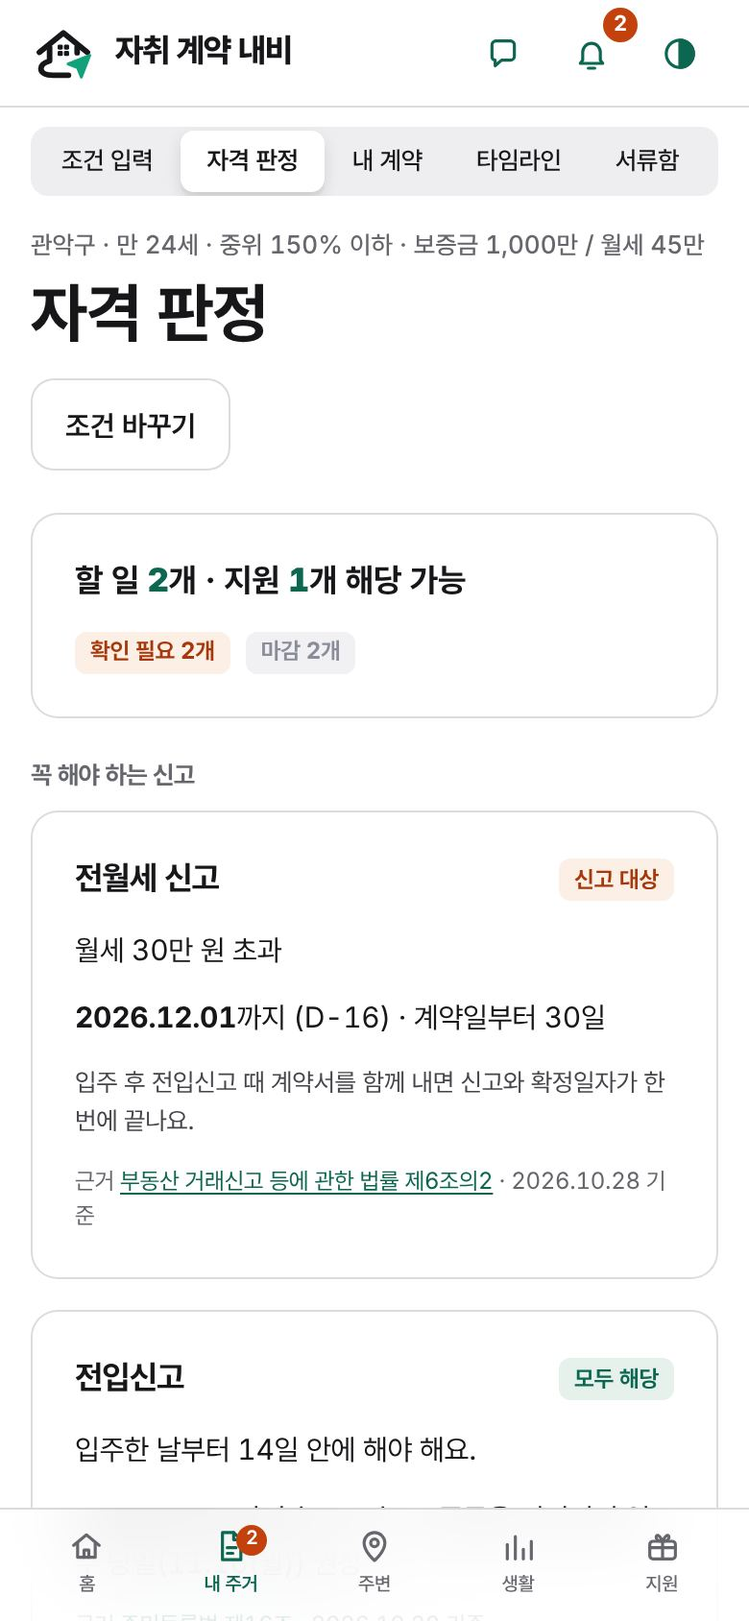
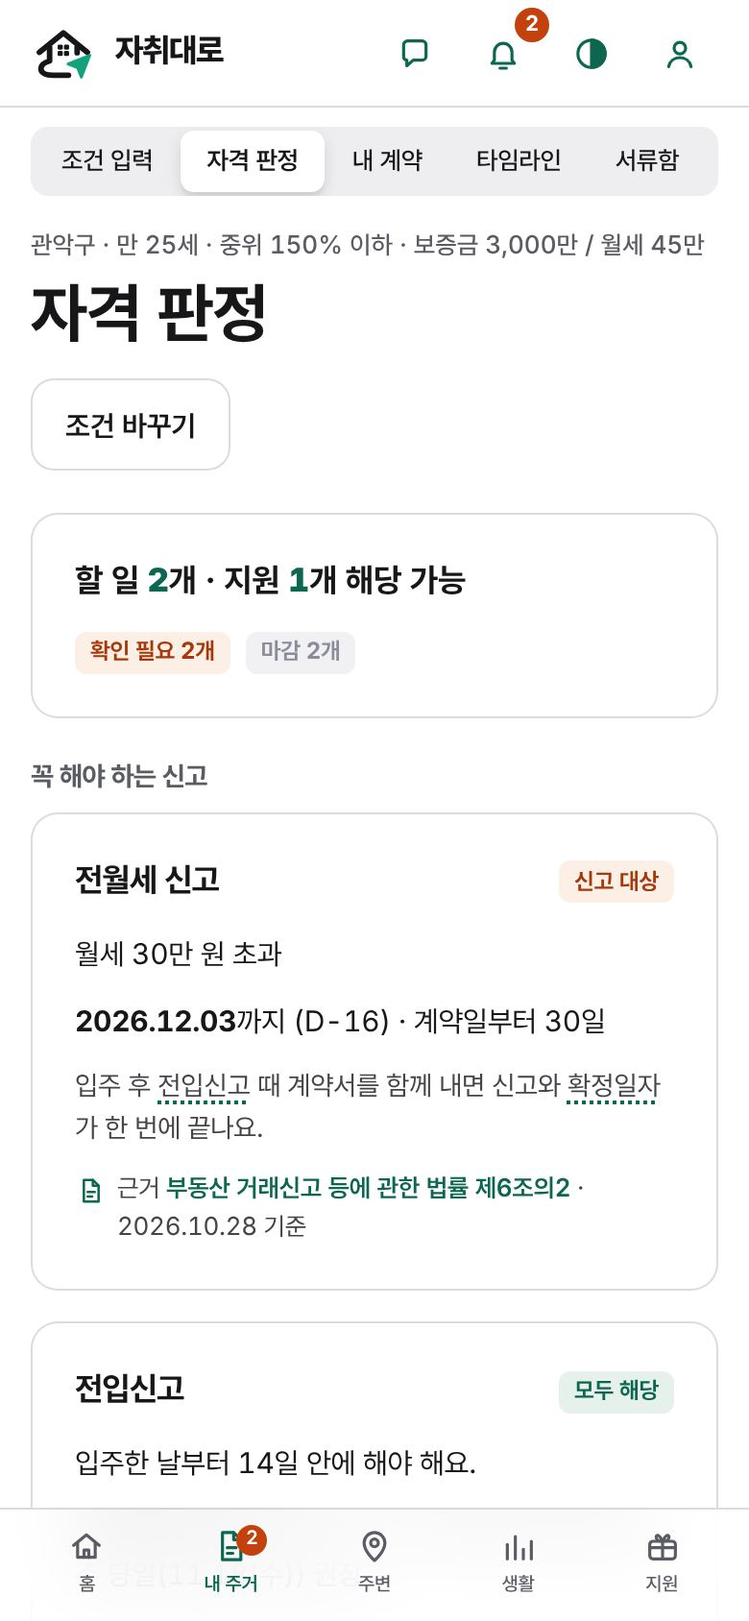
feat: 서비스 이름을 '자취대로'로
- 앱·소개 페이지·운영자 콘솔·예전 계약 전 화면의 제목·로고 글자·홈 화면 이름(manifest name/short_name, iOS 홈 화면 제목)
- 캘린더(.ics) 일정 설명, AI 코치·공고 추출 프롬프트, 승인 공고의 '기본 체크리스트' 출처 이름, 코드 주석
- README·PRD·Architecture·시연 기획서. DECISIONS·Tasks는 기록이라 그대로
- 소개 페이지 화면 이미지 7장을 새 이름으로 다시 촬영
- 서비스워커 캐시 v31 (예전 이름 화면이 남지 않게)
- 주소(jachwi-navi.vercel.app)와 내부 저장 키는 그대로

Claude-Session: https://claude.ai/code/session_01Uqv9B2Vk576jKchxvgvJKG

diff --git a/demo/app.html b/demo/app.html
@@ -4,7 +4,7 @@
 <meta charset="utf-8">
 <meta name="viewport" content="width=device-width, initial-scale=1, viewport-fit=cover">
 <script>/* 화면 테마(자동·밝게·어둡게)를 그리기 전에 먼저 적용해서 처음 열 때 깜빡이지 않게 한다 */ try { var t0 = localStorage.getItem('jachwi-theme'); if (t0 === 'light' || t0 === 'dark') document.documentElement.setAttribute('data-theme', t0); } catch (e) {}</script>
-<title>자취 계약 내비</title>
+<title>자취대로</title>
 <meta name="description" content="처음 자취하는 청년을 위한 계약·신고·지원·동네 생활 길잡이 ">
 <link rel="preconnect" href="https://cdn.jsdelivr.net" crossorigin>
 <link rel="stylesheet" href="https://cdn.jsdelivr.net/npm/pretendard@1.3.9/dist/web/variable/pretendardvariable-dynamic-subset.min.css">
@@ -27,13 +27,13 @@
 <meta name="theme-color" content="#FFFFFF" media="(prefers-color-scheme: light)">
 <meta name="theme-color" content="#111112" media="(prefers-color-scheme: dark)">
 <meta name="apple-mobile-web-app-capable" content="yes">
-<meta name="apple-mobile-web-app-title" content="자취내비">
+<meta name="apple-mobile-web-app-title" content="자취대로">
 <link rel="apple-touch-icon" href="icons/apple-touch-icon.png">
 <link rel="icon" type="image/png" sizes="32x32" href="icons/favicon-32.png">
 <style>
 /* ============================================================
-   자취 내비 디자인 — 계약 후 서비스
-   - 강조색 하나(내비 보라), 기한만 주황으로 구분
+   자취대로 디자인 — 계약 후 서비스
+   - 강조색 하나(보라), 기한만 주황으로 구분
    - 흰 카드 + 헤어라인, 그림자 없음
    - PC: 왼쪽 사이드바 / 휴대폰: 위 바 + 아래 탭바
    ============================================================ */
@@ -1206,7 +1206,7 @@ a.card:active, button.card:active, .room-r:active, .nav:active { opacity: .6 }
 <body>
 <div class="shell">
   <aside class="side" aria-label="주요 메뉴">
-    <a class="brand" href="#home"><span class="brand-mark"><svg viewBox="0 0 64 64" fill="none" aria-hidden="true" focusable="false"><g stroke="currentColor" stroke-width="5.5" stroke-linecap="round" stroke-linejoin="round"><path d="M8.5 30.5 32 11.5l23.5 19"/><path d="M18.5 25.5v13.5c-5.5 1.6-8.5 4.4-8.5 7.6 0 3.9 4.4 6.4 12 6.4h15"/><path d="M45.5 25.5v5.5"/></g><g fill="currentColor"><rect x="26.4" y="23" width="5" height="5" rx="1.3"/><rect x="32.6" y="23" width="5" height="5" rx="1.3"/><rect x="26.4" y="29.2" width="5" height="5" rx="1.3"/><rect x="32.6" y="29.2" width="5" height="5" rx="1.3"/></g><path d="M36.5 42 58 33.5l-8.4 21.5-3.8-9.4z" fill="#12A27B" stroke="#12A27B" stroke-width="2.6" stroke-linejoin="round"/></svg></span><span><b>자취 계약 내비</b><small>첫 자취 길잡이</small></span></a>
+    <a class="brand" href="#home"><span class="brand-mark"><svg viewBox="0 0 64 64" fill="none" aria-hidden="true" focusable="false"><g stroke="currentColor" stroke-width="5.5" stroke-linecap="round" stroke-linejoin="round"><path d="M8.5 30.5 32 11.5l23.5 19"/><path d="M18.5 25.5v13.5c-5.5 1.6-8.5 4.4-8.5 7.6 0 3.9 4.4 6.4 12 6.4h15"/><path d="M45.5 25.5v5.5"/></g><g fill="currentColor"><rect x="26.4" y="23" width="5" height="5" rx="1.3"/><rect x="32.6" y="23" width="5" height="5" rx="1.3"/><rect x="26.4" y="29.2" width="5" height="5" rx="1.3"/><rect x="32.6" y="29.2" width="5" height="5" rx="1.3"/></g><path d="M36.5 42 58 33.5l-8.4 21.5-3.8-9.4z" fill="#12A27B" stroke="#12A27B" stroke-width="2.6" stroke-linejoin="round"/></svg></span><span><b>자취대로</b><small>첫 자취 길잡이</small></span></a>
     <nav id="side-nav" style="display:flex;flex-direction:column;gap:2px"></nav>
     <div class="side-foot">
       <div id="side-tools"></div>
@@ -1214,7 +1214,7 @@ a.card:active, button.card:active, .room-r:active, .nav:active { opacity: .6 }
     </div>
   </aside>
   <div>
-    <header class="topbar"><a class="brand" href="#home"><span class="brand-mark"><svg viewBox="0 0 64 64" fill="none" aria-hidden="true" focusable="false"><g stroke="currentColor" stroke-width="5.5" stroke-linecap="round" stroke-linejoin="round"><path d="M8.5 30.5 32 11.5l23.5 19"/><path d="M18.5 25.5v13.5c-5.5 1.6-8.5 4.4-8.5 7.6 0 3.9 4.4 6.4 12 6.4h15"/><path d="M45.5 25.5v5.5"/></g><g fill="currentColor"><rect x="26.4" y="23" width="5" height="5" rx="1.3"/><rect x="32.6" y="23" width="5" height="5" rx="1.3"/><rect x="26.4" y="29.2" width="5" height="5" rx="1.3"/><rect x="32.6" y="29.2" width="5" height="5" rx="1.3"/></g><path d="M36.5 42 58 33.5l-8.4 21.5-3.8-9.4z" fill="#12A27B" stroke="#12A27B" stroke-width="2.6" stroke-linejoin="round"/></svg></span><b>자취 계약 내비</b></a><span class="row" id="top-acts" style="gap:6px"><a class="icon-btn" href="#coach" aria-label="AI 자취 코치"><span data-icon="chat"></span></a><a class="icon-btn" href="#contract" aria-label="내 계약"><span data-icon="gear"></span></a></span></header>
+    <header class="topbar"><a class="brand" href="#home"><span class="brand-mark"><svg viewBox="0 0 64 64" fill="none" aria-hidden="true" focusable="false"><g stroke="currentColor" stroke-width="5.5" stroke-linecap="round" stroke-linejoin="round"><path d="M8.5 30.5 32 11.5l23.5 19"/><path d="M18.5 25.5v13.5c-5.5 1.6-8.5 4.4-8.5 7.6 0 3.9 4.4 6.4 12 6.4h15"/><path d="M45.5 25.5v5.5"/></g><g fill="currentColor"><rect x="26.4" y="23" width="5" height="5" rx="1.3"/><rect x="32.6" y="23" width="5" height="5" rx="1.3"/><rect x="26.4" y="29.2" width="5" height="5" rx="1.3"/><rect x="32.6" y="29.2" width="5" height="5" rx="1.3"/></g><path d="M36.5 42 58 33.5l-8.4 21.5-3.8-9.4z" fill="#12A27B" stroke="#12A27B" stroke-width="2.6" stroke-linejoin="round"/></svg></span><b>자취대로</b></a><span class="row" id="top-acts" style="gap:6px"><a class="icon-btn" href="#coach" aria-label="AI 자취 코치"><span data-icon="chat"></span></a><a class="icon-btn" href="#contract" aria-label="내 계약"><span data-icon="gear"></span></a></span></header>
     <main class="main" id="app" tabindex="-1"></main>
   </div>
   <nav class="tabbar" id="tab-nav" aria-label="주요 메뉴"></nav>
@@ -1573,7 +1573,7 @@ document.addEventListener('DOMContentLoaded', function () {
   // ---------- 승인된 규칙 (시연용 예시 공고) ----------
   var BASIS = '2026.10.28';
   var LAW = 'https://www.law.go.kr';
-  var BASE_SRC = '자취 계약 내비 기본 체크리스트';
+  var BASE_SRC = '자취대로 기본 체크리스트';
   // 신고·기한·나이 계산은 engine.js(계약·신고 담당), 지원 자격은 rules-core.js(evalProgram)
   var JE = window.JachwiEngine;
   function contractEnd() { return JE.contractEnd(pd(S.move), S.term); }
@@ -1749,7 +1749,7 @@ document.addEventListener('DOMContentLoaded', function () {
     var timed = /^\d{2}:\d{2}$/.test(x.time || ''), a = x.alarm || '1d', trig;
     if (timed) { var hm = x.time.split(':'), st = new Date(Date.UTC(d.getFullYear(), d.getMonth(), d.getDate(), +hm[0] - 9, +hm[1])); L.push('DTSTART:' + utc(st), 'DTEND:' + utc(new Date(st.getTime() + 36e5))); trig = { '0': '-PT0M', '1h': '-PT1H', '1d': '-P1D', '3d': '-P3D' }[a]; }
     else { L.push('DTSTART;VALUE=DATE:' + ymd8(d), 'DTEND;VALUE=DATE:' + ymd8(add(d, 1))); trig = { '0': 'PT9H', '1h': 'PT9H', '1d': '-PT15H', '3d': '-P2DT15H' }[a]; }
-    L.push(icsFold('SUMMARY:' + icsEsc(x.title)), icsFold('DESCRIPTION:' + icsEsc('자취 계약 내비에서 추가한 일정')));
+    L.push(icsFold('SUMMARY:' + icsEsc(x.title)), icsFold('DESCRIPTION:' + icsEsc('자취대로에서 추가한 일정')));
     if (trig) L.push('BEGIN:VALARM', 'ACTION:DISPLAY', icsFold('DESCRIPTION:' + icsEsc(x.title)), 'TRIGGER:' + trig, 'END:VALARM');
     L.push('END:VEVENT', 'END:VCALENDAR');
     return L.join('\r\n') + '\r\n';
@@ -3581,7 +3581,7 @@ document.addEventListener('DOMContentLoaded', function () {
     var d = e.date, dates;
     if (e.time) { var hm = e.time.replace(':', ''), st = new Date(d.getFullYear(), d.getMonth(), d.getDate(), +hm.slice(0, 2), +hm.slice(2, 4) + 60); dates = ymd8(d) + 'T' + hm + '00/' + ymd8(st) + 'T' + String(st.getHours()).padStart(2, '0') + String(st.getMinutes()).padStart(2, '0') + '00'; }
     else dates = ymd8(d) + '/' + ymd8(add(d, 1));
-    return 'https://calendar.google.com/calendar/render?action=TEMPLATE&text=' + encodeURIComponent(e.title) + '&dates=' + dates + '&ctz=Asia/Seoul&details=' + encodeURIComponent('자취 계약 내비에서 추가한 일정');
+    return 'https://calendar.google.com/calendar/render?action=TEMPLATE&text=' + encodeURIComponent(e.title) + '&dates=' + dates + '&ctz=Asia/Seoul&details=' + encodeURIComponent('자취대로에서 추가한 일정');
   }
   function downloadICS() {
     var body = window.JachwiICS ? JachwiICS.build(calPayload(), { name: '자취 캘린더' }) : '';
@@ -4050,7 +4050,7 @@ document.addEventListener('DOMContentLoaded', function () {
     var w = OB_WHY[st] || OB_WHY[0];
     return '<aside class="ob-aside" aria-label="' + esc(w[0]) + '"><h2>' + esc(w[0]) + '</h2><ul>' + w[1].map(function (x) { return '<li><b>' + esc(x[0]) + '</b><span>' + esc(x[1]) + '</span></li>'; }).join('') + '</ul></aside>';
   }
-  function obBrand() { return '<div class="brand" style="padding:0"><span class="brand-mark"><svg viewBox="0 0 64 64" fill="none" aria-hidden="true" focusable="false"><g stroke="currentColor" stroke-width="5.5" stroke-linecap="round" stroke-linejoin="round"><path d="M8.5 30.5 32 11.5l23.5 19"/><path d="M18.5 25.5v13.5c-5.5 1.6-8.5 4.4-8.5 7.6 0 3.9 4.4 6.4 12 6.4h15"/><path d="M45.5 25.5v5.5"/></g><g fill="currentColor"><rect x="26.4" y="23" width="5" height="5" rx="1.3"/><rect x="32.6" y="23" width="5" height="5" rx="1.3"/><rect x="26.4" y="29.2" width="5" height="5" rx="1.3"/><rect x="32.6" y="29.2" width="5" height="5" rx="1.3"/></g><path d="M36.5 42 58 33.5l-8.4 21.5-3.8-9.4z" fill="#12A27B" stroke="#12A27B" stroke-width="2.6" stroke-linejoin="round"/></svg></span><span><b>자취 계약 내비</b><small>첫 자취 길잡이</small></span></div>'; }
+  function obBrand() { return '<div class="brand" style="padding:0"><span class="brand-mark"><svg viewBox="0 0 64 64" fill="none" aria-hidden="true" focusable="false"><g stroke="currentColor" stroke-width="5.5" stroke-linecap="round" stroke-linejoin="round"><path d="M8.5 30.5 32 11.5l23.5 19"/><path d="M18.5 25.5v13.5c-5.5 1.6-8.5 4.4-8.5 7.6 0 3.9 4.4 6.4 12 6.4h15"/><path d="M45.5 25.5v5.5"/></g><g fill="currentColor"><rect x="26.4" y="23" width="5" height="5" rx="1.3"/><rect x="32.6" y="23" width="5" height="5" rx="1.3"/><rect x="26.4" y="29.2" width="5" height="5" rx="1.3"/><rect x="32.6" y="29.2" width="5" height="5" rx="1.3"/></g><path d="M36.5 42 58 33.5l-8.4 21.5-3.8-9.4z" fill="#12A27B" stroke="#12A27B" stroke-width="2.6" stroke-linejoin="round"/></svg></span><span><b>자취대로</b><small>첫 자취 길잡이</small></span></div>'; }
   // 로그인 화면 (내 기록을 쓰려면 로그인. 예시 데이터는 로그인 없이)
   function viewLogin() {
     moBegin('start');
@@ -4099,7 +4099,7 @@ document.addEventListener('DOMContentLoaded', function () {
       if (!o || !/^\d{4}-\d{2}-\d{2}$/.test(o.contract || '') || !/^\d{4}-\d{2}-\d{2}$/.test(o.move || '')) throw new Error('bad');
       if (!confirm('이 파일의 기록으로 지금 기록을 바꿀까요?')) return;
       S = migrate(Object.assign(clone(FRESH), o, { onboarded: true, demo: false, sim: null })); AMT_NOTE = {}; save(); PC.k = ''; DATA = { key: '', status: 'idle', items: [], sources: [], fetchedAt: '', notes: [], error: '' }; render(false); toast('기록을 불러왔어요.');
-    }).catch(function () { toast('자취 계약 내비 백업 파일이 아니에요.'); });
+    }).catch(function () { toast('자취대로 백업 파일이 아니에요.'); });
   }
 
   // ---------- 조건 입력 (필수 ①) ----------

diff --git a/demo/index.html b/demo/index.html
@@ -4,7 +4,7 @@
 <meta charset="utf-8">
 <meta name="viewport" content="width=device-width, initial-scale=1, viewport-fit=cover">
 <style>:root{color-scheme:light}body{margin:0}img{max-width:100%}[hidden]{display:none!important}</style>
-<title>자취 계약 내비</title>
+<title>자취대로</title>
 <meta name="claude:viewport-fit-sides" content="cover">
 <link rel="preconnect" href="https://fonts.googleapis.com">
 <link rel="preconnect" href="https://fonts.gstatic.com" crossorigin>
@@ -200,7 +200,7 @@ footer nav a { color: var(--sub); text-decoration: none; font-weight: 600 }
 <div class="demo-bar"><div class="wrap"><span>시연 버전이에요. 서울 청년 주거지원 공고(2026.10.28 기준) 예시 데이터로 동작해요.</span><span><a href="app.html">계약 후 화면 보기</a> · <a href="admin.html">운영자 콘솔(공고 검수·AI 코치)</a></span></div></div>
 
 <header class="top"><div class="wrap">
-  <a class="logo" href="#home"><span class="logo-mark" aria-hidden="true"><svg width="18" height="18" viewBox="0 0 24 24" fill="none" stroke-width="2.2" stroke-linecap="round" stroke-linejoin="round"><path d="M4 11.5 12 5l8 6.5"/><path d="M6.5 10v9h11v-9"/><path d="M10.5 19v-4.5h3V19"/></svg></span>자취 계약 내비</a>
+  <a class="logo" href="#home"><span class="logo-mark" aria-hidden="true"><svg width="18" height="18" viewBox="0 0 24 24" fill="none" stroke-width="2.2" stroke-linecap="round" stroke-linejoin="round"><path d="M4 11.5 12 5l8 6.5"/><path d="M6.5 10v9h11v-9"/><path d="M10.5 19v-4.5h3V19"/></svg></span>자취대로</a>
   <nav class="nav" aria-label="주요 메뉴">
     <a href="#input" data-nav="input">조건 입력</a>
     <a href="#result" data-nav="result">확인 결과</a>
@@ -215,7 +215,7 @@ footer nav a { color: var(--sub); text-decoration: none; font-weight: 600 }
   <nav aria-label="시연 화면 바로가기">
     <a href="#home">홈</a><a href="#input">조건 입력</a><a href="#result">확인 결과</a><a href="#timeline">타임라인</a><a href="#detail-rent">지원 상세</a><a href="#docs">서류함</a><a href="#room">방 크기 미리보기</a><a href="#admin">관리자 · 공고 검수</a>
   </nav>
-  <p>자취 계약 내비는 법률 자문이나 권리분석을 대신하지 않아요. 지원 자격은 각 기관 심사로 최종 결정돼요.<br>데이터 출처: 온통청년(한국고용정보원), 서울주거포털, 국토교통부, 행정표준코드관리시스템</p>
+  <p>자취대로는 법률 자문이나 권리분석을 대신하지 않아요. 지원 자격은 각 기관 심사로 최종 결정돼요.<br>데이터 출처: 온통청년(한국고용정보원), 서울주거포털, 국토교통부, 행정표준코드관리시스템</p>
 </div></footer>
 
 <div id="toast" role="status" aria-live="polite" hidden></div>
@@ -307,16 +307,16 @@ footer nav a { color: var(--sub); text-decoration: none; font-weight: 600 }
     st.push({ name: '계약 전', when: '~ ' + md(add(C, -1)), at: add(C, -1), tasks: [
       { id: 't1', title: '안심전세 앱에서 시세·임대인 조회', desc: '보증금이 시세에 맞는지, 보증보험 가입이 막힌 집은 아닌지 봐요.', due: add(C, -1), act: ['안심전세 앱 ↗', 'https://www.khug.or.kr'], src: 'HUG 안심전세 앱' },
       { id: 't2', title: '등기부등본 확인', desc: '계약할 사람이 실제 집주인인지, 근저당이 얼마나 잡혀 있는지 확인해요.', due: add(C, -1), act: ['인터넷등기소 ↗', 'https://www.iros.go.kr'], src: '대법원 인터넷등기소' },
-      { id: 't3', title: '집 보러 가서 수압·곰팡이 체크', desc: '창틀, 화장실 천장, 싱크대 아래를 열어 보세요. 방 치수도 재 두면 가구가 들어가는지 미리 볼 수 있어요.', due: add(C, -1), act: ['방 크기 미리보기', '#room'], keep: true, src: '자취 계약 내비 기본 체크리스트' },
+      { id: 't3', title: '집 보러 가서 수압·곰팡이 체크', desc: '창틀, 화장실 천장, 싱크대 아래를 열어 보세요. 방 치수도 재 두면 가구가 들어가는지 미리 볼 수 있어요.', due: add(C, -1), act: ['방 크기 미리보기', '#room'], keep: true, src: '자취대로 기본 체크리스트' },
       { id: 't4', title: '특약사항 미리 요청하기', desc: '“퇴거 시 보증금 즉시 반환”, “입주 전 도배” 같은 약속은 계약서에 적어야 효력이 있어요.', due: add(C, -1), src: '주택임대차 표준계약서' }
     ] });
     st.push({ name: '계약 당일', when: md(C), at: C, tasks: [
-      { id: 't5', title: '계약금은 집주인 명의 계좌로 이체', desc: '현금 대신 이체하고, 이체 확인증을 서류함에 넣어 두세요.', due: C, act: ['서류함에 넣기', '#docs'], src: '자취 계약 내비 기본 체크리스트' },
-      { id: 't6', title: '계약서 사본 받기', desc: '지원금 신청과 전월세 신고에 계속 쓰여요.', due: C, act: ['서류함에 넣기', '#docs'], src: '자취 계약 내비 기본 체크리스트' }
+      { id: 't5', title: '계약금은 집주인 명의 계좌로 이체', desc: '현금 대신 이체하고, 이체 확인증을 서류함에 넣어 두세요.', due: C, act: ['서류함에 넣기', '#docs'], src: '자취대로 기본 체크리스트' },
+      { id: 't6', title: '계약서 사본 받기', desc: '지원금 신청과 전월세 신고에 계속 쓰여요.', due: C, act: ['서류함에 넣기', '#docs'], src: '자취대로 기본 체크리스트' }
     ] });
     st.push({ name: '이사 당일', when: md(M), at: M, tasks: [
       { id: 't7', title: '전입신고', desc: '이사한 날부터 14일 안에 해야 해요. 정부24에서 온라인으로 할 수 있어요.', due: R.movein.due, urgent: true, act: ['정부24에서 신고 ↗', 'https://www.gov.kr'], src: '주민등록법 제16조' },
-      { id: 't8', title: '집 상태 사진 찍어 두기', desc: '벽지, 바닥, 옵션 가전 상태를 날짜가 보이게 남기면 퇴거 때 분쟁을 줄일 수 있어요.', due: M, act: ['사진 올리기', '#docs'], src: '자취 계약 내비 기본 체크리스트' }
+      { id: 't8', title: '집 상태 사진 찍어 두기', desc: '벽지, 바닥, 옵션 가전 상태를 날짜가 보이게 남기면 퇴거 때 분쟁을 줄일 수 있어요.', due: M, act: ['사진 올리기', '#docs'], src: '자취대로 기본 체크리스트' }
     ] });
     var t30 = [];
     if (R.report.required) {

diff --git a/demo/rules/seed.js b/demo/rules/seed.js
@@ -587,11 +587,11 @@
       { id: 'k-fee', title: '관리비', keywords: ['관리비', '관리비 항목', '공용'],
         body: '관리비에 무엇이 들어가는지(수도·인터넷·청소비·공용 전기 등)는 집마다 달라요. 계약서 특약이나 집주인 문자로 항목과 금액을 받아 두세요. 받은 내용대로 자취 캘린더의 공과금 항목을 켜고 끄면 매달 나갈 돈이 맞게 계산돼요.',
         ask: ['가스·인터넷은 언제 신청해?', '월세 세액공제 받을 수 있어?'],
-        cite: [['자취 계약 내비 기본 체크리스트', '#calendar']] },
+        cite: [['자취대로 기본 체크리스트', '#calendar']] },
       { id: 'k-utility', title: '가스·전기·인터넷 개통', keywords: ['가스', '도시가스', '전기', '수도', '인터넷', '공과금', '개통', '와이파이'],
         body: '도시가스는 기사가 방문해 안전점검을 한 뒤 열어 줘서 입주 며칠 전에 관할 도시가스사에 예약해야 해요. 인터넷 설치도 기사 방문까지 며칠 걸려요. 입주 당일에는 전기·가스·수도 계량기 숫자를 사진으로 남겨 두면 전 세입자와 요금을 나눌 때 근거가 돼요.',
         ask: ['관리비에는 뭐가 들어가?', '입주할 때 사진 찍어야 해?'],
-        cite: [['자취 계약 내비 기본 체크리스트', '#timeline']] },
+        cite: [['자취대로 기본 체크리스트', '#timeline']] },
       { id: 'k-moveout', title: '계약 만료와 퇴거', keywords: ['퇴거', '만료', '갱신', '나가', '이사 가', '묵시적', '계약갱신요구권', '연장', '계약 끝', '계약이 끝', '끝나면', '끝날', '끝내'],
         body: '세입자가 계약을 끝내려면 만료 2개월 전까지 집주인에게 알려야 해요. 둘 다 아무 말이 없으면 같은 조건으로 계약이 이어지는데(묵시적 갱신), 이때 세입자는 언제든 해지를 알릴 수 있고 3개월 뒤에 효력이 생겨요. 세입자는 계약갱신요구권을 한 번 써서 2년 더 살 수 있어요. 보증금을 돌려받지 못한 채 이사해야 하면 먼저 임차권등기명령을 신청하세요.',
         ask: ['보증금을 안 돌려주면 어떡해?', '집주인이 월세 올려 달래'],
@@ -601,7 +601,7 @@
         ask: ['받을 수 있는 지원금 있어?', '전입신고는 언제 해?'],
         cite: [['조세특례제한법 제95조의2', LAW], ['국세청 홈택스', 'https://www.hometax.go.kr']] },
       { id: 'k-support', title: '지원금 판정 원칙', keywords: ['지원', '지원금', '받을 수', '자격', '혜택', '지원 못 받', '다른 지원'],
-        body: '자취 계약 내비는 운영자가 공고 원문과 대조해 승인한 기준으로만 지원 자격을 판정해요. 금액은 공고마다 따로 보여 주고 합치지 않아요. 무주택·중복 수혜처럼 내가 답해야 아는 조건은 조건 입력에서 답하기 전까지 답하면 판정으로, 모른다고 답하면 확인 필요로 보여 줘요. 해당 가능이어도 최종 선정은 기관 심사로 정해져요.',
+        body: '자취대로는 운영자가 공고 원문과 대조해 승인한 기준으로만 지원 자격을 판정해요. 금액은 공고마다 따로 보여 주고 합치지 않아요. 무주택·중복 수혜처럼 내가 답해야 아는 조건은 조건 입력에서 답하기 전까지 답하면 판정으로, 모른다고 답하면 확인 필요로 보여 줘요. 해당 가능이어도 최종 선정은 기관 심사로 정해져요.',
         ask: ['청년월세 지원 서류 뭐 필요해?', '중개수수료 얼마야?'],
         cite: [['지원사업 화면', '#support']] },
       { id: 'k-homeless', whole: true, title: '무주택 뜻', keywords: ['무주택', '무주택자', '집이 없', '집 없', '주택 소유', '집 있', '부모님 집'],
@@ -643,7 +643,7 @@
       { id: 'k-save-utility', title: '공과금 줄이기', keywords: ['공과금 줄', '공과금 아끼', '전기세', '가스비', '난방비', '전기요금', '가스요금', '절약'],
         body: '난방비는 외출할 때 보일러를 끄기보다 외출 모드나 낮은 온도로 두는 편이 다시 데우는 데 드는 가스를 줄여요. 쓰지 않는 전자 제품은 멀티탭 스위치로 꺼서 대기 전력을 줄이세요. 관리비에 수도·인터넷이 들어 있는지 확인하고, 따로 또 내고 있다면 정리하세요. 겨울철 가스요금은 다른 달보다 크게 오르니 캘린더에 예상 금액으로 넣어 두세요.',
         ask: ['관리비에는 뭐가 들어가?', '이번 달 고정비 얼마야?'],
-        cite: [['자취 계약 내비 기본 체크리스트', '#calendar']] },
+        cite: [['자취대로 기본 체크리스트', '#calendar']] },
       { id: 'k-condition', title: '입주·퇴거 때 집 상태 기록', keywords: ['원상복구', '집 상태', '사진', '흠집', '하자 기록', '찍어'],
         body: '짐을 넣기 전에 벽지·바닥·옵션 가전의 흠을 사진으로 찍고, 날짜가 남도록 집주인에게 문자로 보내 두세요. 퇴거 때 원상복구 범위를 두고 다툴 때 가장 확실한 근거가 돼요. 보통 생활하면서 생긴 마모는 세입자가 원상복구할 대상이 아니에요.',
         ask: ['곰팡이 생기면 누가 고쳐?', '계약 끝나고 나가려면?'],

diff --git a/demo/admin.html b/demo/admin.html
@@ -3,7 +3,7 @@
 <head>
 <meta charset="utf-8">
 <meta name="viewport" content="width=device-width, initial-scale=1, viewport-fit=cover">
-<title>운영자 콘솔 · 자취 계약 내비</title>
+<title>운영자 콘솔 · 자취대로</title>
 <meta name="robots" content="noindex">
 <link rel="preconnect" href="https://cdn.jsdelivr.net" crossorigin>
 <link rel="stylesheet" href="https://cdn.jsdelivr.net/npm/pretendard@1.3.9/dist/web/variable/pretendardvariable-dynamic-subset.min.css">
@@ -233,7 +233,7 @@ document.addEventListener('DOMContentLoaded', function () {
 
   // ---------- 로그인 ----------
   function viewLogin() {
-    return '<div class="login stack"><div class="brand"><i class="logo"><svg viewBox="0 0 64 64" fill="none" aria-hidden="true" focusable="false"><g stroke="currentColor" stroke-width="5.5" stroke-linecap="round" stroke-linejoin="round"><path d="M8.5 30.5 32 11.5l23.5 19"/><path d="M18.5 25.5v13.5c-5.5 1.6-8.5 4.4-8.5 7.6 0 3.9 4.4 6.4 12 6.4h15"/><path d="M45.5 25.5v5.5"/></g><g fill="currentColor"><rect x="26.4" y="23" width="5" height="5" rx="1.3"/><rect x="32.6" y="23" width="5" height="5" rx="1.3"/><rect x="26.4" y="29.2" width="5" height="5" rx="1.3"/><rect x="32.6" y="29.2" width="5" height="5" rx="1.3"/></g><path d="M36.5 42 58 33.5l-8.4 21.5-3.8-9.4z" fill="#12A27B" stroke="#12A27B" stroke-width="2.6" stroke-linejoin="round"/></svg></i><div>운영자 콘솔<small>자취 계약 내비</small></div></div><div class="card stack"><h2>운영자 코드</h2><p class="s13 muted">공유 저장소의 공고를 승인·발행하려면 운영자 코드가 필요해요. 코드는 이 탭에만 보관되고 닫으면 지워져요.</p>' +
+    return '<div class="login stack"><div class="brand"><i class="logo"><svg viewBox="0 0 64 64" fill="none" aria-hidden="true" focusable="false"><g stroke="currentColor" stroke-width="5.5" stroke-linecap="round" stroke-linejoin="round"><path d="M8.5 30.5 32 11.5l23.5 19"/><path d="M18.5 25.5v13.5c-5.5 1.6-8.5 4.4-8.5 7.6 0 3.9 4.4 6.4 12 6.4h15"/><path d="M45.5 25.5v5.5"/></g><g fill="currentColor"><rect x="26.4" y="23" width="5" height="5" rx="1.3"/><rect x="32.6" y="23" width="5" height="5" rx="1.3"/><rect x="26.4" y="29.2" width="5" height="5" rx="1.3"/><rect x="32.6" y="29.2" width="5" height="5" rx="1.3"/></g><path d="M36.5 42 58 33.5l-8.4 21.5-3.8-9.4z" fill="#12A27B" stroke="#12A27B" stroke-width="2.6" stroke-linejoin="round"/></svg></i><div>운영자 콘솔<small>자취대로</small></div></div><div class="card stack"><h2>운영자 코드</h2><p class="s13 muted">공유 저장소의 공고를 승인·발행하려면 운영자 코드가 필요해요. 코드는 이 탭에만 보관되고 닫으면 지워져요.</p>' +
       (A.err ? '<div class="banner bad">' + esc(A.err) + '</div>' : '') +
       '<form data-form="login" class="stack"><input class="inp" type="password" autocomplete="current-password" name="t" placeholder="운영자 코드" required><input class="inp" name="n" placeholder="검수자 이름 (기록에 남아요)" value="' + esc(A.name) + '" maxlength="20"><button class="btn">들어가기</button></form>' +
       '<button class="btn ghost" data-act="practice">코드 없이 연습 모드로 둘러보기</button><p class="s12 muted">연습 모드는 이 브라우저에만 저장돼요. 같은 브라우저의 이용자 화면에서 결과를 바로 확인할 수 있어요.</p></div></div>';
@@ -534,7 +534,7 @@ document.addEventListener('DOMContentLoaded', function () {
     var R = route(), y = window.scrollY, srcEl = document.querySelector('[data-src]'), srcY = srcEl ? srcEl.parentNode.scrollTop : 0;
     var V = { queue: viewQueue, new: viewNew, review: function () { return viewReview(R.id); }, published: viewPublished, notice: function () { return viewNotice(R.id); }, cards: viewCards, missed: viewMissed, quality: viewQuality, prompts: viewPrompts, log: viewLog }[R.r] || viewQueue;
     root.innerHTML = shell(V());
-    document.title = (R.r === 'review' ? '검수 · ' : '') + '운영자 콘솔 · 자취 계약 내비';
+    document.title = (R.r === 'review' ? '검수 · ' : '') + '운영자 콘솔 · 자취대로';
     if (keep) { window.scrollTo(0, y); var s2 = document.querySelector('[data-src]'); if (s2) s2.parentNode.scrollTop = srcY; }
   }
   // 다른 운영자가 바꾼 내용·새로 쌓인 질문을 보도록 화면을 옮길 때마다 다시 불러옴 (검수 중인 초안은 건드리지 않음)

diff --git a/demo/landing.html b/demo/landing.html
@@ -3,10 +3,10 @@
 <head>
 <meta charset="utf-8">
 <meta name="viewport" content="width=device-width, initial-scale=1, viewport-fit=cover">
-<title>자취 계약 내비 · 첫 자취 길잡이</title>
+<title>자취대로 · 첫 자취 길잡이</title>
 <meta name="description" content="계약한 날부터 나가는 날까지. 전월세 신고·전입신고 기한, 내 지역에서 받을 수 있는 지원, 오늘 할 일을 내 날짜로 알려 주는 첫 자취 길잡이.">
 <meta name="theme-color" content="#FFFFFF">
-<meta property="og:title" content="자취 계약 내비 · 첫 자취 길잡이">
+<meta property="og:title" content="자취대로 · 첫 자취 길잡이">
 <meta property="og:description" content="계약한 날부터 나가는 날까지, 할 일과 기한을 한 길로.">
 <meta property="og:image" content="icons/logo-1024.png">
 <link rel="icon" href="icons/favicon-32.png" sizes="32x32">
@@ -259,7 +259,7 @@ footer a { color: var(--ink-2) }
 
 <header class="nav" id="nav">
   <div class="wrap">
-    <a class="brand" href="#top" aria-label="자취 계약 내비 처음으로"><svg viewBox="0 0 64 64" fill="none" aria-hidden="true" focusable="false"><g stroke="currentColor" stroke-width="5.5" stroke-linecap="round" stroke-linejoin="round"><path d="M8.5 30.5 32 11.5l23.5 19"/><path d="M18.5 25.5v13.5c-5.5 1.6-8.5 4.4-8.5 7.6 0 3.9 4.4 6.4 12 6.4h15"/><path d="M45.5 25.5v5.5"/></g><g fill="currentColor"><rect x="26.4" y="23" width="5" height="5" rx="1.3"/><rect x="32.6" y="23" width="5" height="5" rx="1.3"/><rect x="26.4" y="29.2" width="5" height="5" rx="1.3"/><rect x="32.6" y="29.2" width="5" height="5" rx="1.3"/></g><path d="M36.5 42 58 33.5l-8.4 21.5-3.8-9.4z" fill="#12A27B" stroke="#12A27B" stroke-width="2.6" stroke-linejoin="round"/></svg>자취 계약 내비</a>
+    <a class="brand" href="#top" aria-label="자취대로 처음으로"><svg viewBox="0 0 64 64" fill="none" aria-hidden="true" focusable="false"><g stroke="currentColor" stroke-width="5.5" stroke-linecap="round" stroke-linejoin="round"><path d="M8.5 30.5 32 11.5l23.5 19"/><path d="M18.5 25.5v13.5c-5.5 1.6-8.5 4.4-8.5 7.6 0 3.9 4.4 6.4 12 6.4h15"/><path d="M45.5 25.5v5.5"/></g><g fill="currentColor"><rect x="26.4" y="23" width="5" height="5" rx="1.3"/><rect x="32.6" y="23" width="5" height="5" rx="1.3"/><rect x="26.4" y="29.2" width="5" height="5" rx="1.3"/><rect x="32.6" y="29.2" width="5" height="5" rx="1.3"/></g><path d="M36.5 42 58 33.5l-8.4 21.5-3.8-9.4z" fill="#12A27B" stroke="#12A27B" stroke-width="2.6" stroke-linejoin="round"/></svg>자취대로</a>
     <nav aria-label="소개 메뉴"><ul>
       <li><a href="#how">이렇게 도와줘요</a></li>
       <li><a href="#features">기능</a></li>
@@ -458,7 +458,7 @@ footer a { color: var(--ink-2) }
 
 <footer>
   <div class="wrap">
-    <div><b style="color:var(--ink)">자취 계약 내비</b> · 처음 자취하는 청년을 위한 계약·신고·지원 통합 타임라인</div>
+    <div><b style="color:var(--ink)">자취대로</b> · 처음 자취하는 청년을 위한 계약·신고·지원 통합 타임라인</div>
     <div>이 서비스의 안내는 법령과 공고를 바탕으로 한 참고 정보예요. 실제 신고·신청은 해당 기관 안내를 따라 주세요.</div>
     <div><a href="app.html">서비스 바로 가기</a> · <a href="admin.html">운영자 콘솔</a></div>
   </div>

diff --git a/demo/ics.js b/demo/ics.js
@@ -1,5 +1,5 @@
 /*
- * 자취 계약 내비 · 캘린더(.ics) 만들기
+ * 자취대로 · 캘린더(.ics) 만들기
  * 브라우저(window.JachwiICS)와 Vercel 함수(require) 양쪽에서 같은 코드로 쓴다.
  *
  * payload 형식 (짧게 만들어 URL에 담는다. 서버에 저장하지 않는다)
@@ -50,7 +50,7 @@
     }
     (p.e || []).forEach(function (x) {
       if (!Array.isArray(x) || !isYmd(x[0])) return;
-      ev(['DTSTART;VALUE=DATE:' + x[0], 'DTEND;VALUE=DATE:' + addDay(x[0])], clean(x[1]), '자취 계약 내비에서 만든 일정이에요.', 'e' + x[0] + x[1]);
+      ev(['DTSTART;VALUE=DATE:' + x[0], 'DTEND;VALUE=DATE:' + addDay(x[0])], clean(x[1]), '자취대로에서 만든 일정이에요.', 'e' + x[0] + x[1]);
     });
     (p.t || []).forEach(function (x) {
       if (!Array.isArray(x) || !/^\d{12}$/.test(x[0])) return;
@@ -64,7 +64,7 @@
       var y = +start.slice(0, 4), m = +start.slice(4, 6), dim = new Date(Date.UTC(y, m, 0)).getUTCDate();
       var first = y + pad(m) + pad(Math.min(day === 31 ? dim : day, dim));
       var rule = 'FREQ=MONTHLY;INTERVAL=' + every + ';BYMONTHDAY=' + (day === 31 ? -1 : day) + (count ? ';COUNT=' + count : isYmd(until) ? ';UNTIL=' + until : '');
-      ev(['DTSTART;VALUE=DATE:' + first, 'DTEND;VALUE=DATE:' + addDay(first), 'RRULE:' + rule], name + ' ' + amt.toLocaleString('ko-KR') + '원' + (kind === 'i' ? ' 입금' : ' 납부'), '자취 계약 내비에서 만든 반복 일정이에요.', 'b' + name + start);
+      ev(['DTSTART;VALUE=DATE:' + first, 'DTEND;VALUE=DATE:' + addDay(first), 'RRULE:' + rule], name + ' ' + amt.toLocaleString('ko-KR') + '원' + (kind === 'i' ? ' 입금' : ' 납부'), '자취대로에서 만든 반복 일정이에요.', 'b' + name + start);
     });
     L.push('END:VCALENDAR');
     return L.map(fold).join('\r\n') + '\r\n';

diff --git a/demo/sw.js b/demo/sw.js
@@ -1,6 +1,6 @@
-// 자취 계약 내비 · 오프라인에서도 앱 화면이 열리도록 최소한만 캐시한다.
+// 자취대로 · 오프라인에서도 앱 화면이 열리도록 최소한만 캐시한다.
 // 주변 데이터(/api)와 지도 타일은 캐시하지 않는다.
-const CACHE = 'jachwi-v30';
+const CACHE = 'jachwi-v31';
 const SHELL = ['/app.html', '/ics.js', '/places-core.js', '/rules-core.js', '/engine.js', '/coach-core.js', '/assistant-core.js', '/account-core.js', '/rules/seed.js', '/support-core.js', '/data/regions.js', '/manifest.webmanifest', '/icons/icon-192.png', '/icons/logo-mark.png', '/icons/bots/landlord.png', '/icons/bots/repair.png', '/icons/bots/money.png', '/icons/bots/rights.png', '/icons/bots/local.png', '/icons/bots/auto.png'];
 self.addEventListener('install', (e) => { e.waitUntil(caches.open(CACHE).then((c) => c.addAll(SHELL)).then(() => self.skipWaiting())); });
 self.addEventListener('activate', (e) => { e.waitUntil(caches.keys().then((ks) => Promise.all(ks.filter((k) => k !== CACHE).map((k) => caches.delete(k)))).then(() => self.clients.claim())); });

diff --git a/demo/screens-core.js b/demo/screens-core.js
@@ -1,4 +1,4 @@
-/* 자취 계약 내비 — 계약·신고 6개 화면(#input #result #timeline #contract #moveout #docs) 전용 순수 함수
+/* 자취대로 — 계약·신고 6개 화면(#input #result #timeline #contract #moveout #docs) 전용 순수 함수
  * 맡는 일: 모션 토큰(길이·지연·곡선의 단일 원본), 등장 판정, 차례 지연, 숫자 카운트 값 + 화면별 순수 함수(T-10~T-13 구역)
  * 팀 공통 규칙이 아니다. DOM·저장소·앱 상태를 읽지 않는다 — 입력은 plain 값, 날짜도 인자로 받는다.
  * 브라우저: <script src="screens-core.js"> → 전역 JachwiScreens / Node: require('./screens-core.js')

diff --git a/demo/engine.js b/demo/engine.js
@@ -1,4 +1,4 @@
-/* 자취 계약 내비 — 계약·신고 계산 엔진 (브라우저·Node 공용, 순수 함수)
+/* 자취대로 — 계약·신고 계산 엔진 (브라우저·Node 공용, 순수 함수)
  * 맡는 일: 전월세 신고 의무·기한, 전입신고 기한, 계약 만료일, 갱신 통지 마감, 만 나이, 입력 검사
  * 지원 자격 판정은 rules-core.js(운영자 승인 공고 → evalProgram)가 맡는다. 여기서는 toUser()로 입력만 넘긴다.
  * 브라우저: <script src="engine.js"> → window.JachwiEngine / Node: require('./engine.js')

diff --git a/demo/assistant-core.js b/demo/assistant-core.js
@@ -1,4 +1,4 @@
-/* 자취 계약 내비 · 자취 AI 비서 (내장 AI, 외부 API 없이 이 기기 안에서 동작, UMD)
+/* 자취대로 · 자취 AI 비서 (내장 AI, 외부 API 없이 이 기기 안에서 동작, UMD)
  *
  * 봇 여섯 개가 하나의 비서 안에 있다. 질문을 보고 알맞은 봇에게 넘기고(자유 질문), 봇을 골라 물을 수도 있다.
  *   집주인톡  landlord — 집주인에게 보낼 문자 초안 (수리 요청, 보증금 반환, 계약 끝내기, 갱신, 인상 답장, 월세 늦어짐, 입주 사진, 관리비 문의)

diff --git a/demo/support-core.js b/demo/support-core.js
@@ -1,4 +1,4 @@
-/* 자취 계약 내비 · 지원사업 공용 로직 (브라우저 + 서버 + 테스트)
+/* 자취대로 · 지원사업 공용 로직 (브라우저 + 서버 + 테스트)
  *  1. 온통청년 정책 한 건을 화면용으로 정리 (normalize)
  *  2. 이용 시점 기준 접수 상태 (statusAt)
  *  3. 등록된 조건과 내 정보 대조 (check) — 구조화된 항목 + 글에서 금액으로 바꿀 수 있는 조건(소득 기준, 무주택, 보증금·월세 상한). 나머지 글 조건은 판정하지 않는다

diff --git a/demo/life-core.js b/demo/life-core.js
@@ -1,4 +1,4 @@
-/* 자취 계약 내비 — 생활 관리(주거비 관리·자취 캘린더) 전용 순수 함수
+/* 자취대로 — 생활 관리(주거비 관리·자취 캘린더) 전용 순수 함수
  * 맡는 일: 달마다 낼 주거비 목록 만들기(반복 주기·계약 기간·관리비 포함 여부·고지서 실제 금액·달별 납부 체크),
  *          이번 달 합계, 납부 상태, 실제 금액 추천값
  * DOM·저장소·앱 상태를 읽지 않는다 — 필요한 값은 모두 인자로 받는다.
